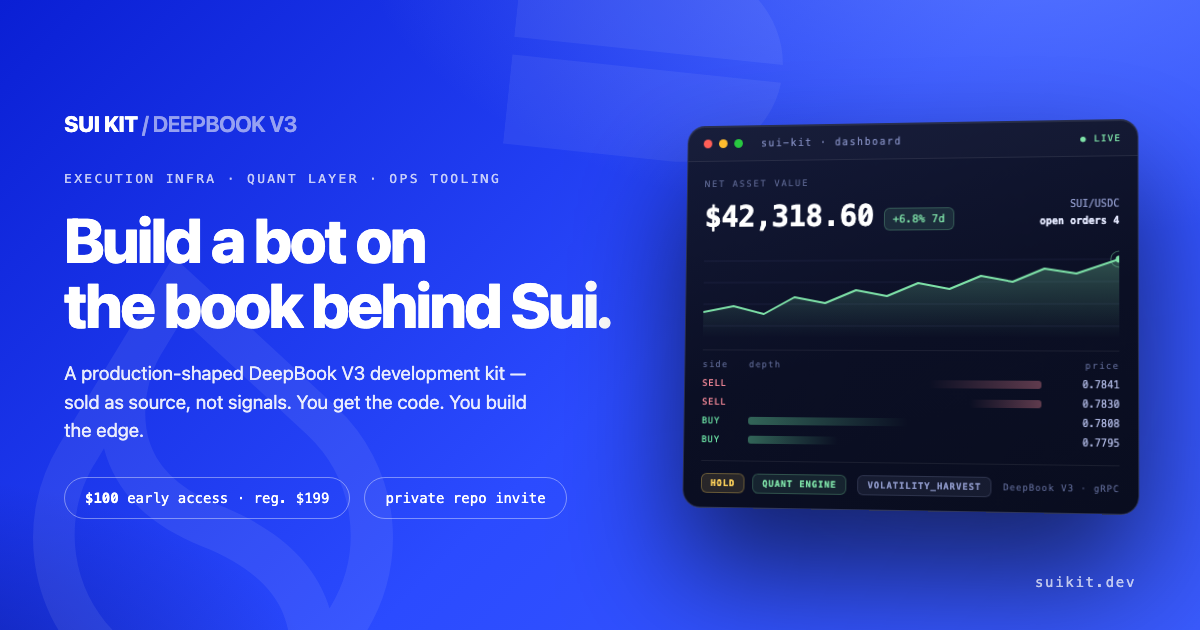
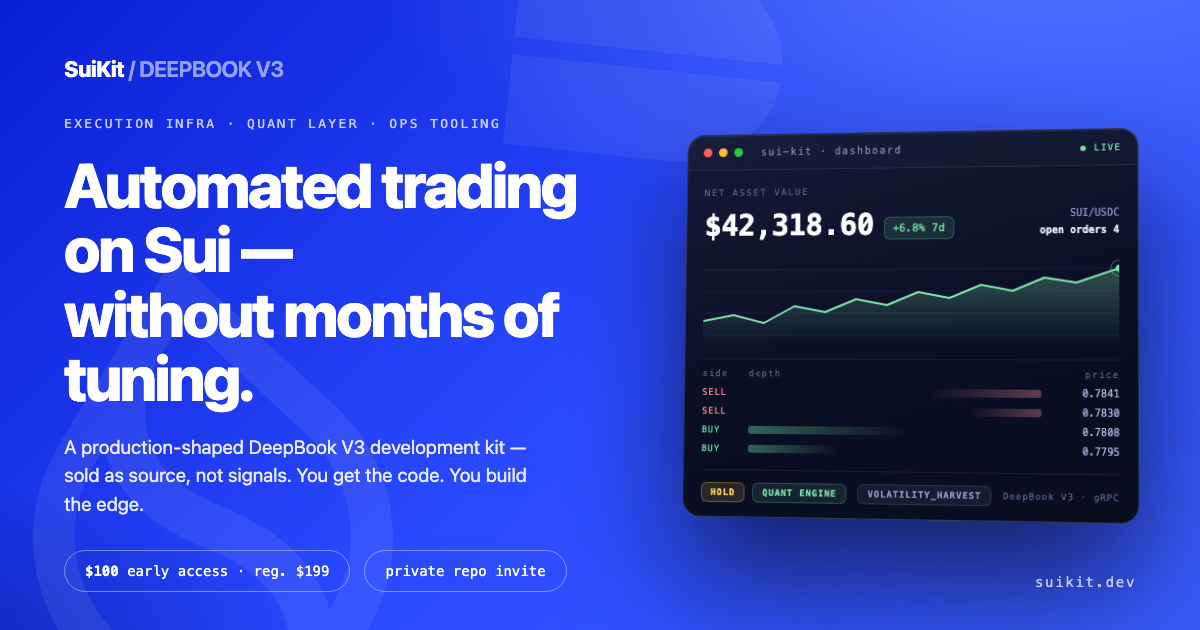
New tagline: Automated trading on Sui, without months of tuning (EN/PT/KO + OG)

diff --git a/index.pt.html b/index.pt.html
@@ -3,10 +3,10 @@
 <head>
 <meta charset="UTF-8">
 <meta name="viewport" content="width=device-width, initial-scale=1.0">
-<title>Sui DeepBook V3 Bot Kit — Construa sobre o livro de ofertas da Sui</title>
+<title>Sui DeepBook V3 Bot Kit — Trading automatizado na Sui, sem meses de tuning</title>
 <meta name="description" content="Kit de desenvolvimento de bot para DeepBook V3 testado em produção. Motor de execução gRPC, camada de decisão quant, ferramentas de operação — vendido como código, não como sinais.">
 <!-- OGP / social preview -->
-<meta property="og:title" content="Sui DeepBook V3 Bot Kit — Construa sobre o livro de ofertas da Sui">
+<meta property="og:title" content="Sui DeepBook V3 Bot Kit — Trading automatizado na Sui, sem meses de tuning">
 <meta property="og:description" content="Kit de desenvolvimento para DeepBook V3. Infraestrutura de execução, camada quant e ferramentas de operação. $100 USDC · acesso ao código.">
 <meta property="og:type" content="website">
 <link rel="canonical" href="https://suikit.dev/index.pt.html">
@@ -94,7 +94,7 @@
   <div class="container">
     <div>
       <div class="kicker">Sui · DeepBook V3 · Kit com código-fonte</div>
-      <h1>Crie um bot<br>sobre o livro de<br>ofertas da Sui.</h1>
+      <h1>Trading automatizado<br>na Sui — sem meses<br>de tuning.</h1>
       <p>Um kit de desenvolvimento testado em produção para o DeepBook V3 — execução
       real com BalanceManager, camada quant determinística e ferramentas de
       operação. Você recebe o código. Você constrói a vantagem.</p>

diff --git a/index.ko.html b/index.ko.html
@@ -3,10 +3,10 @@
 <head>
 <meta charset="UTF-8">
 <meta name="viewport" content="width=device-width, initial-scale=1.0">
-<title>SuiKit — DeepBook V3 봇 개발 키트 · $100 USDC</title>
+<title>SuiKit — Sui 자동 매매, 튜닝 수개월 생략 · $100 USDC</title>
 <meta name="description" content="DeepBook V3(Sui)용 프로덕션급 봇 개발 키트. 실행 인프라, 결정론적 퀀트 레이어, 운영 툴링 — 소스로 판매, 시그널이 아닙니다.">
 <!-- OGP / social preview -->
-<meta property="og:title" content="SuiKit — DeepBook V3 봇 개발 키트">
+<meta property="og:title" content="SuiKit — Sui 자동 매매, 튜닝 수개월 생략">
 <meta property="og:description" content="DeepBook V3 실행 인프라 + 퀀트 의사결정 레이어 + 운영 툴링. $100 USDC · 소스 액세스.">
 <meta property="og:type" content="website">
 <link rel="canonical" href="https://suikit.dev/index.ko.html">
@@ -100,7 +100,7 @@
   <div class="container">
     <div>
       <div class="kicker">Sui · DeepBook V3 · 소스 공개 키트</div>
-      <h1>오더북 위에서<br>돌아가는 봇을<br>직접 만드세요.</h1>
+      <h1>Sui 자동 매매,<br>수개월 걸리는<br>튜닝 없이.</h1>
       <p>DeepBook V3용 프로덕션급 개발 키트 — 실제 BalanceManager 실행, 결정론적 퀀트 레이어, 운영 툴링까지. 소스는 당신의 것, 엣지는 당신이 만듭니다.</p>
       <div class="cta-row">
         <a href="#" class="btn btn-white" data-open-pay>월렛 연결 &amp; 결제</a>

diff --git a/index.html b/index.html
@@ -3,10 +3,10 @@
 <head>
 <meta charset="UTF-8">
 <meta name="viewport" content="width=device-width, initial-scale=1.0">
-<title>Sui DeepBook V3 Bot Kit — Build on the book behind Sui</title>
+<title>Sui DeepBook V3 Bot Kit — Automated trading on Sui, minus the tuning</title>
 <meta name="description" content="A production-shaped DeepBook V3 trading bot development kit for Sui. gRPC execution engine, quant decision layer, ops tooling — sold as source, not signals.">
 <!-- OGP / social preview -->
-<meta property="og:title" content="Sui DeepBook V3 Bot Kit — Build on the book behind Sui">
+<meta property="og:title" content="Sui DeepBook V3 Bot Kit — Automated trading on Sui, minus the tuning">
 <meta property="og:description" content="Production-shaped DeepBook V3 bot development kit. Execution infrastructure, quant decision layer, ops tooling. $100 USDC · source access.">
 <meta property="og:type" content="website">
 <link rel="canonical" href="https://suikit.dev/">
@@ -100,7 +100,7 @@
   <div class="container">
     <div>
       <div class="kicker">Sui · DeepBook V3 · Source-available kit</div>
-      <h1>Build a bot<br>on the book<br>behind Sui.</h1>
+      <h1>Automated trading<br>on Sui — without<br>months of tuning.</h1>
       <p>A production-shaped development kit for DeepBook V3 — real BalanceManager
       execution, a deterministic quant layer, and the ops tooling to run it.
       You get the source. You build the edge.</p>

diff --git a/og-src.html b/og-src.html
@@ -112,9 +112,9 @@ p.sub{margin-top:22px;font-size:19px;line-height:1.5;opacity:.9;max-width:480px}
 
 <div class="frame">
   <div>
-    <div class="logo">SUI KIT<span> / DEEPBOOK V3</span></div>
+    <div class="logo">SuiKit<span> / DEEPBOOK V3</span></div>
     <div class="kicker">Execution infra · Quant layer · Ops tooling</div>
-    <h1>Build a bot on<br>the book behind Sui.</h1>
+    <h1>Automated trading on Sui —<br>without months of tuning.</h1>
     <p class="sub">A production-shaped DeepBook V3 development kit — sold as
     source, not signals. You get the code. You build the edge.</p>
     <div class="pill-row">
